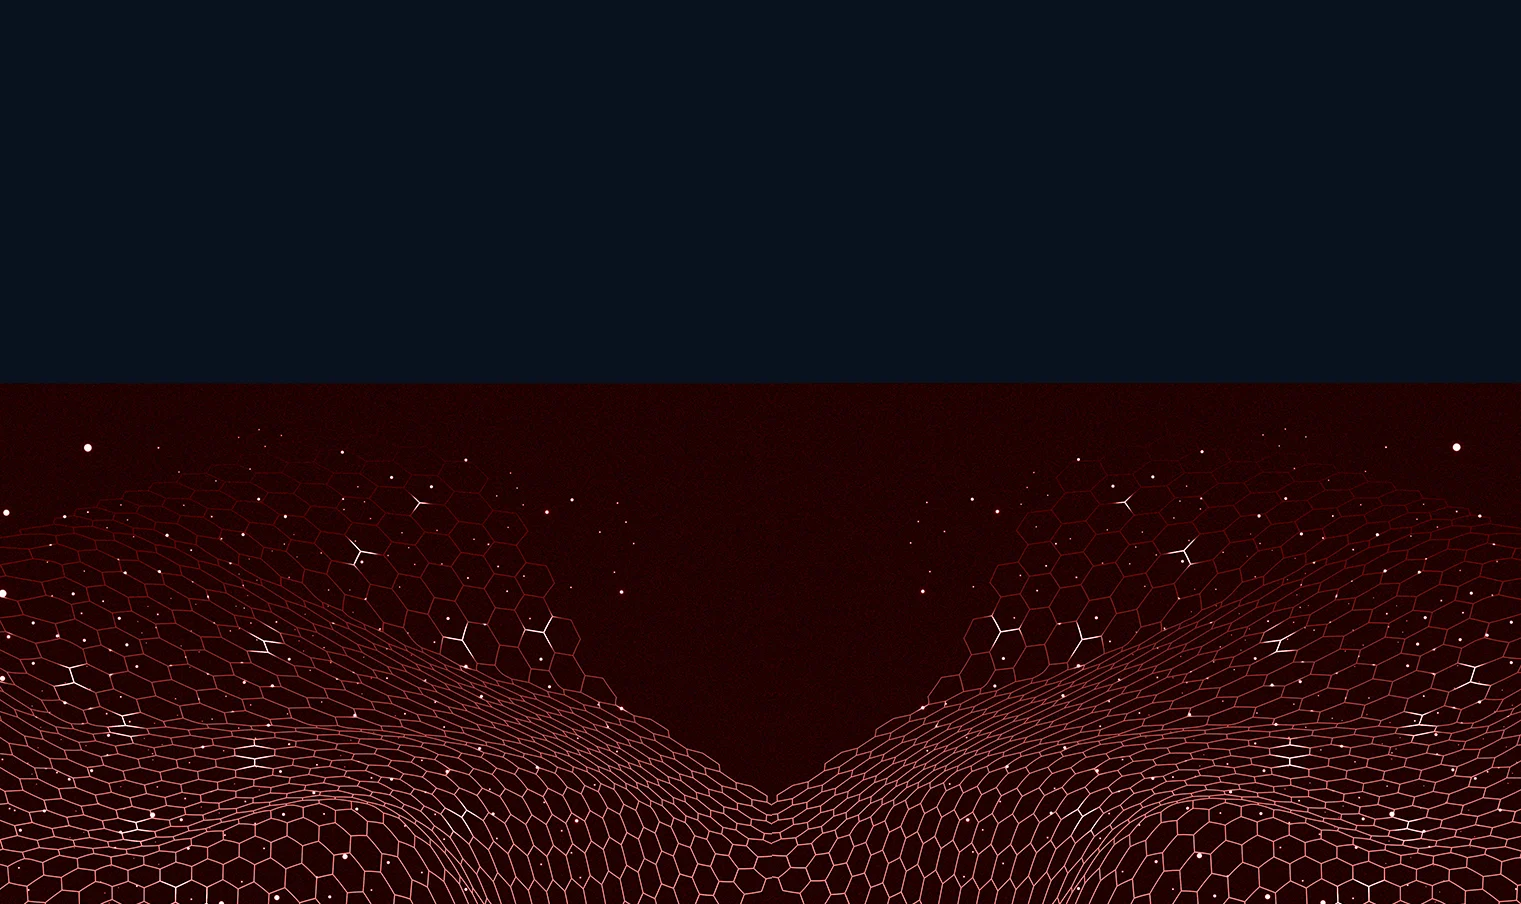
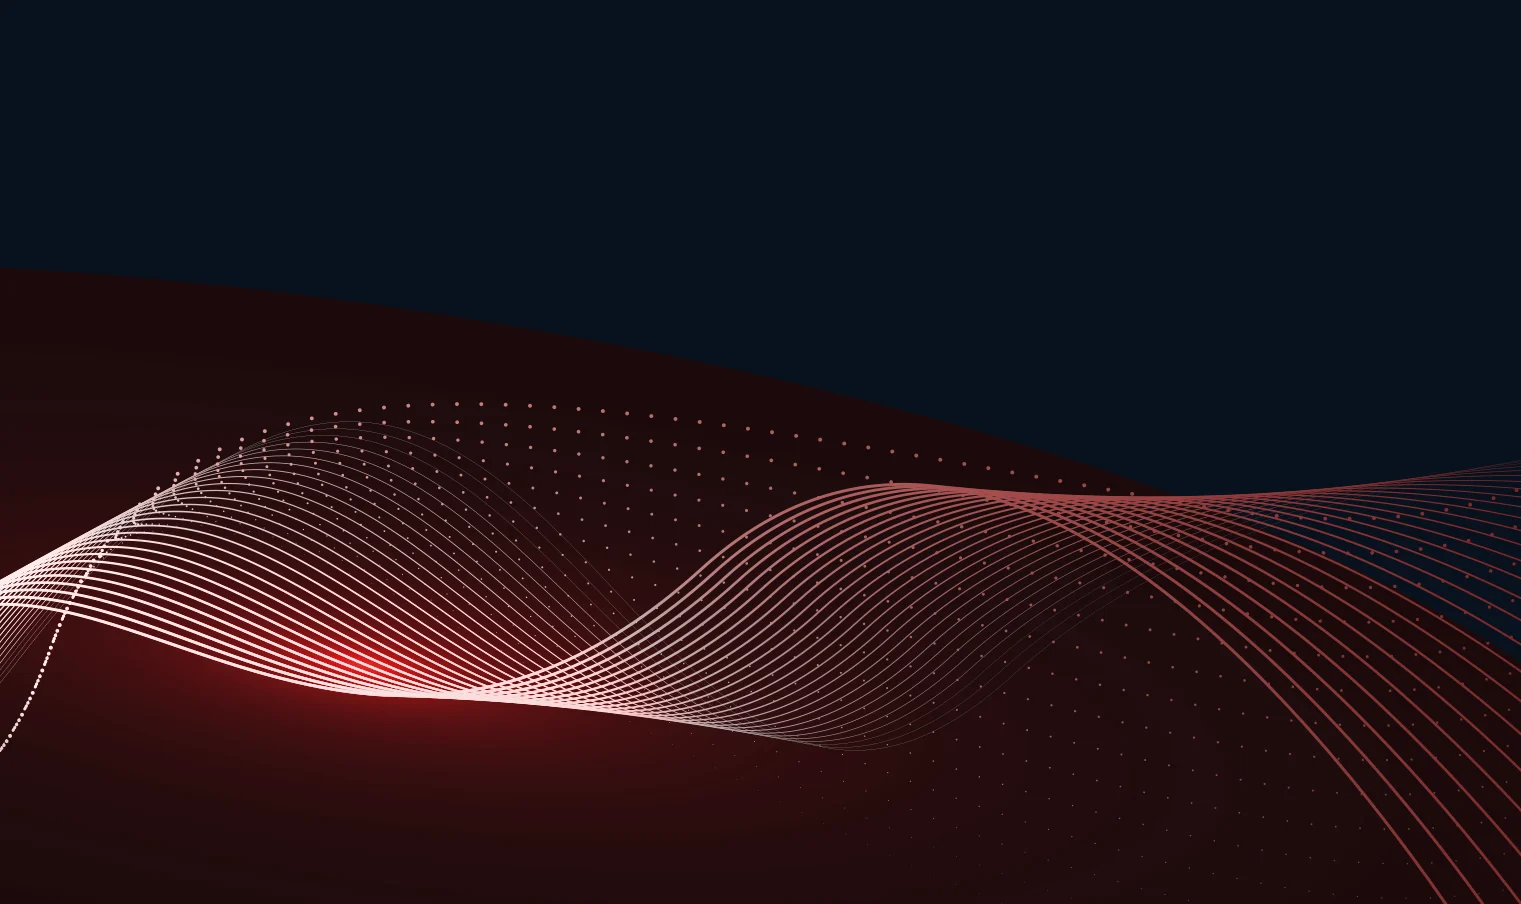
new changs

Changed region(s): [[0.0, 0.4027, 1.0, 1.0]]

diff --git a/src/pages/CompanyPage.jsx b/src/pages/CompanyPage.jsx
@@ -6,9 +6,11 @@ import UspServices from '../components/services/UspServices';
 import { Comapny_HEADER, KEY_FEATURES_CONFIG,  members_CONFIG , Drive_CONFIG , Company_CTA_CONFIG} from "../config/companyConfig"
 import SectionHeading from "@/components/common/SectionHeading";
 import FeatureCard from "@/components/card/FeaturedCard.jsx";
-import { Check, FlaskConical, Linkedin, Network, Twitter, X } from 'lucide-react';
+import { Check, FlaskConical, Link, Linkedin, Network, Twitter, X } from 'lucide-react';
 import Button from '../components/ui/Button';
 import CtaSection from "../components/common/CtaSection"
+// import { Link } from 'react-router-dom';
+
 
 const CompanyPage = () => {
     const { cards } = KEY_FEATURES_CONFIG;
@@ -116,6 +118,36 @@ Our platform maps dependencies, monitors patterns, and provides actionable intel
                        </div>
                     </div>
                 </div>
+            </section>
+            <section className='py-[90px] rounded-t-[50px] md:rounded-t-[100px] lg:px-0 px-5 rounded-b-0  mt-[-100px] bg-[#fff] '>
+                    {/* <p className='font-secondary font-[600] text-[18px] text-[#717171] text-center mb-[10px]'>Our Platforms</p> */}
+                <SectionHeading
+                    title="Engineering the Future"
+                    subtitle='Founder'
+                    titleClassName="text-[#000]"
+                    subtitleClassName=" text-[#626161] max-w-[100%]"
+                />
+              <div className="grid grid-cols-12 justify-center gap-6 mt-[60px] max-w-[1120px] mx-auto">
+                <div className="md:col-span-3 col-span-12">
+                    <img src="/founder.png" className='md:h-[373px] w-full object-cover rounded-[16px]' alt="" />
+                </div>
+                <div className="md:col-span-9 col-span-12">
+                    <div className='flex justify-between items-center'>
+                    <h3 className='text-[#C44558] md:text-[36px] text-[28px] font-primary font-[600]'>Sucharitha Patil</h3>
+                    <ul className='flex gap-3 items-center'>
+                        <li><a className='text-[#C44558]'><X/></a></li>
+                        <li><a className='text-[#C44558]'><Linkedin/></a></li>
+                    </ul>
+                    </div>
+                    <p className='text-[#1E1E1E] text-[16px] font-secondary font-[500]'>Founder & Ceo</p>
+                    <p className='text-[#1E1E1E] text-[16px] font-secondary font-[500] mt-6'>Sucharitha is a senior engineering and technology leader with over 20 years of experience guiding enterprise-scale AI strategy, operating models, and governance across Fortune 500 companies and highly regulated sectors, including finance, healthcare, travel, and supply chain.</p>
+                    <p className='text-[#1E1E1E] text-[16px] font-secondary font-[500] mt-6'>Sucharitha brings a proven ability to align advanced technology initiatives with business priorities, delivering scalable platforms, durable operating frameworks, and measurable enterprise value.</p>
+                    <p className='text-[#1E1E1E] text-[16px] font-secondary font-[500] mt-6'>Sucharitha brings a proven ability to align advanced technology initiatives with business priorities, delivering scalable platforms, durable operating frameworks, and measurable enterprise value.</p>
+                </div>
+                    
+                </div>
+                 
+
             </section>
             <section className='py-[90px] rounded-t-[50px] md:rounded-t-[100px] lg:px-0 px-5 rounded-b-0  mt-[-100px] bg-[#fff] '>
                     {/* <p className='font-secondary font-[600] text-[18px] text-[#717171] text-center mb-[10px]'>Our Platforms</p> */}
